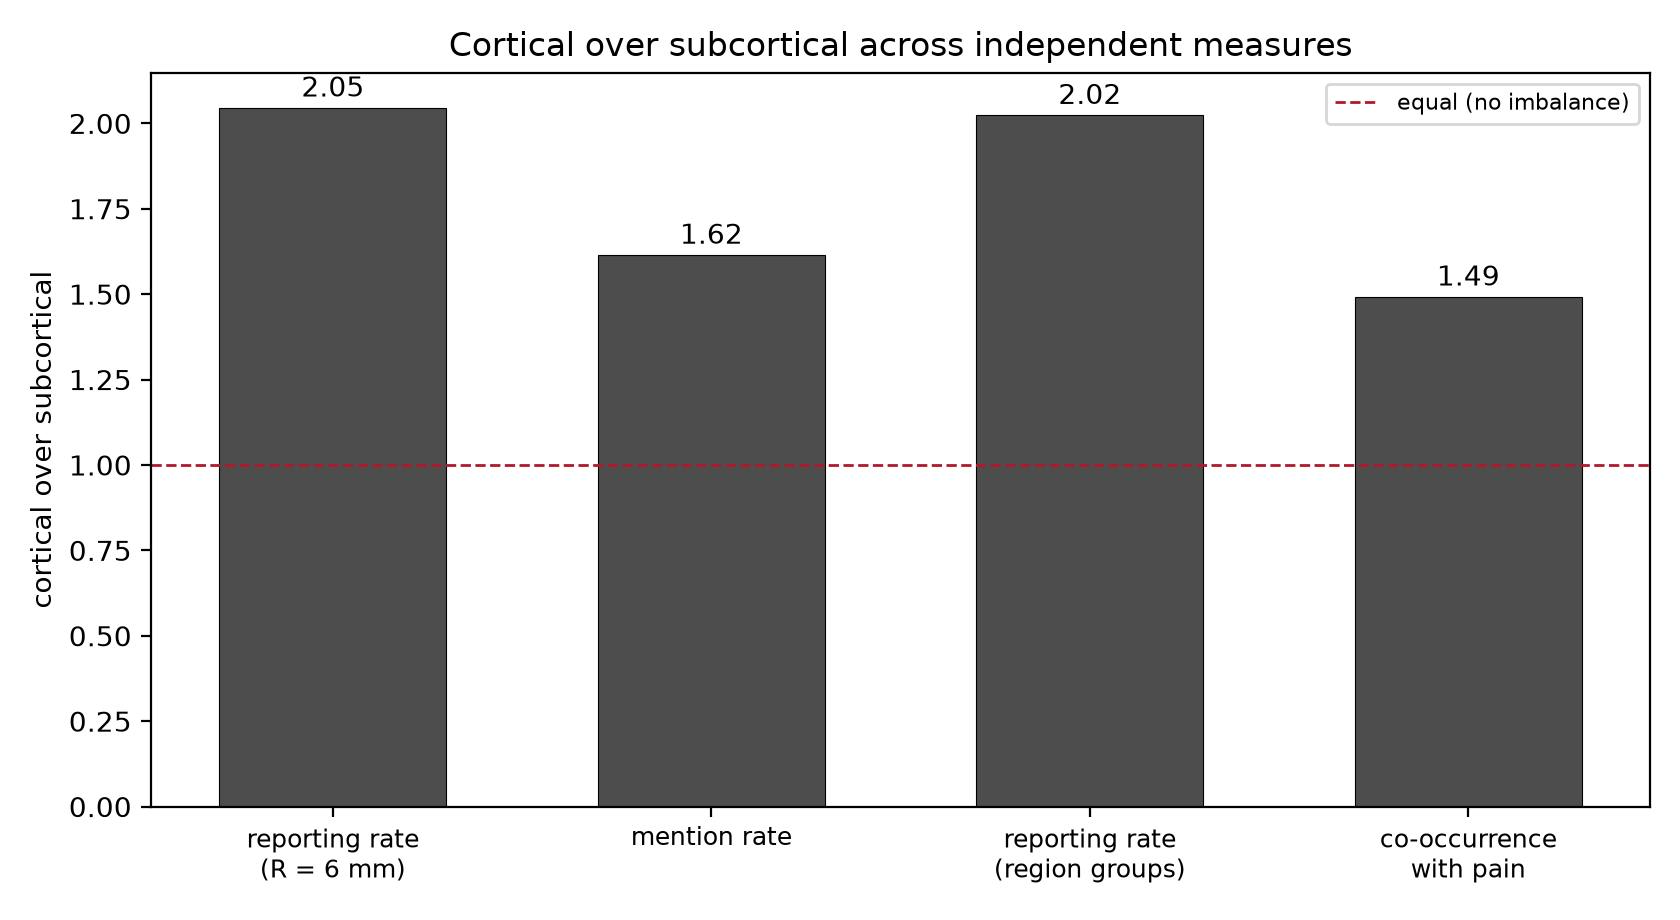
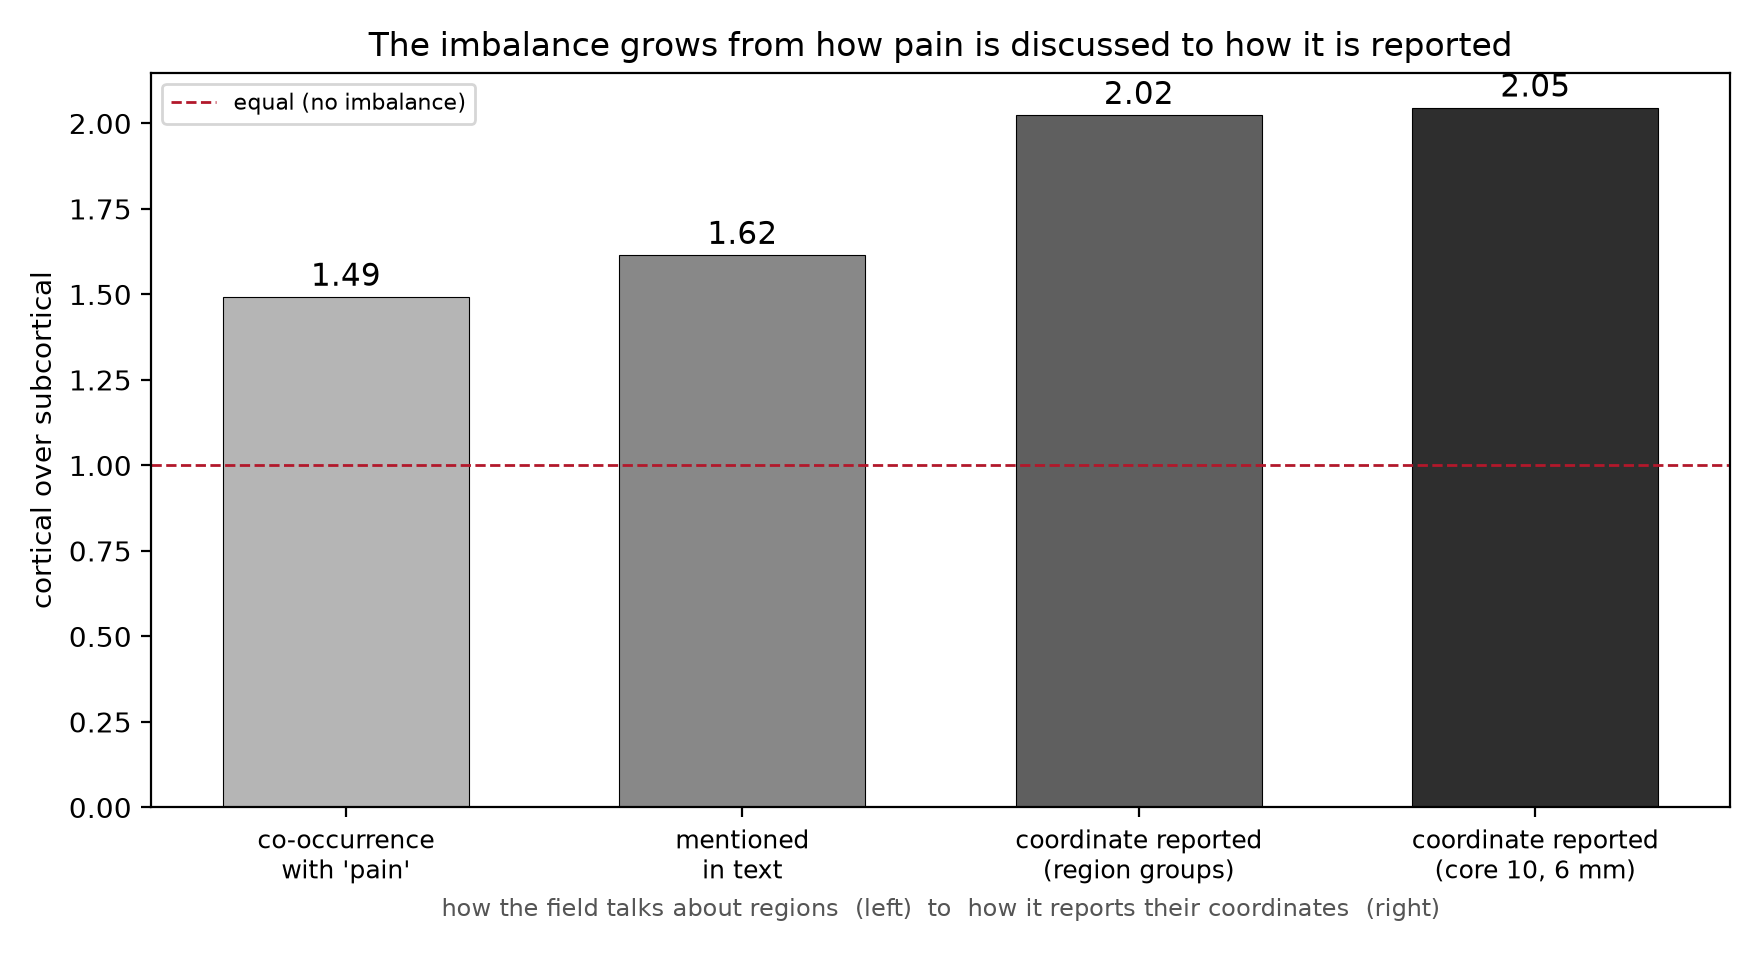
Bracket the threshold sweep and show the convergence gradient
Idea A sweep now spans selection fractions around the primary (2% to 7% of the
corpus), showing the ratio is stable near 2.0 across the pain-specific range and
eases to 1.7 only when loosened. Convergence figure reordered as a gradient from
co-occurrence (1.49) through mentions (1.62) to coordinate reporting (2.02, 2.05),
with graduated shading and a clearer title.

diff --git a/src/make_figures.py b/src/make_figures.py
@@ -29,26 +29,26 @@ def load_json(name):
 
 
 def main():
+    # Ordered as a gradient: how the field talks about regions on the left, how it
+    # reports their coordinates on the right. Idea B uses a signed encoding statistic,
+    # so it is shown as its own per-region figure rather than as a ratio here.
     bars = []
+
+    e = load_json("provenance_E.json")
+    if e and e.get("ratio"):
+        bars.append(("co-occurrence\nwith 'pain'", e["ratio"]))
+
+    c = load_json("provenance_C.json")
+    if c:
+        bars.append(("mentioned\nin text", c["mention_ratio"]))
+        bars.append(("coordinate reported\n(region groups)", c["reporting_ratio"]))
 
     ratio_tab = os.path.join(DATA, "ratio_by_radius.csv")
     if os.path.exists(ratio_tab):
         df = pd.read_csv(ratio_tab)
         r6 = df[(df.roi_set == "core10") & (df.R_mm == 6)]
         if len(r6):
-            bars.append(("reporting rate\n(R = 6 mm)", float(r6.ratio.iloc[0])))
-
-    c = load_json("provenance_C.json")
-    if c:
-        bars.append(("mention rate", c["mention_ratio"]))
-        bars.append(("reporting rate\n(region groups)", c["reporting_ratio"]))
-
-    e = load_json("provenance_E.json")
-    if e and e.get("ratio"):
-        bars.append(("co-occurrence\nwith pain", e["ratio"]))
-
-    # Idea B uses a signed encoding statistic, so it is shown as its own per-region
-    # figure (roi_zvalues.png) rather than as a ratio of means here.
+            bars.append(("coordinate reported\n(core 10, 6 mm)", float(r6.ratio.iloc[0])))
 
     if not bars:
         print("no result files yet; run the analyses first")
@@ -57,16 +57,20 @@ def main():
     labels = [b[0] for b in bars]
     vals = [b[1] for b in bars]
     x = np.arange(len(bars))
-    fig, ax = plt.subplots(figsize=(1.6 * len(bars) + 2, 4.6))
-    ax.bar(x, vals, color="#4d4d4d", edgecolor="k", linewidth=0.4, width=0.6)
+    shades = plt.cm.Greys(np.linspace(0.40, 0.85, len(bars)))
+    fig, ax = plt.subplots(figsize=(1.7 * len(bars) + 2, 4.8))
+    ax.bar(x, vals, color=shades, edgecolor="k", linewidth=0.4, width=0.62)
     ax.axhline(1.0, color="#b2182b", lw=1, ls="--", label="equal (no imbalance)")
     for xi, v in zip(x, vals):
-        ax.annotate("%.2f" % v, (xi, v), textcoords="offset points", xytext=(0, 4), ha="center")
+        ax.annotate("%.2f" % v, (xi, v), textcoords="offset points", xytext=(0, 4),
+                    ha="center", fontsize=11)
     ax.set_xticks(x)
     ax.set_xticklabels(labels, fontsize=9)
     ax.set_ylabel("cortical over subcortical")
-    ax.set_title("Cortical over subcortical across independent measures")
-    ax.legend(fontsize=8)
+    ax.set_title("The imbalance grows from how pain is discussed to how it is reported")
+    ax.set_xlabel("how the field talks about regions  (left)  to  how it reports their coordinates  (right)",
+                  fontsize=8.5, color="#555555")
+    ax.legend(fontsize=8, loc="upper left")
     fig.tight_layout()
     fig.savefig(os.path.join(FIG, "convergence_summary.png"), dpi=200)
     plt.close(fig)

diff --git a/src/audit_reporting.py b/src/audit_reporting.py
@@ -36,7 +36,8 @@ for d in (DATA, FIG):
 
 RADII = [6, 8, 10, 12]
 TARGET_FRACTION = 0.036   # pain study fraction to match when picking the primary threshold
-SWEEP = [0.0005, 0.001, 0.002, 0.003, 0.005]
+# fractions that bracket the primary selection, so the sweep shows stability around it
+SWEEP_FRACTIONS = [0.02, 0.03, 0.036, 0.05, 0.07]
 CORTICAL = "#b2182b"
 SUBCORT = "#2166ac"
 
@@ -192,18 +193,20 @@ def main():
     print(core_sum.to_string(index=False))
 
     sweep_rows = []
-    for t in SWEEP:
+    for frac in SWEEP_FRACTIONS:
+        t = threshold_for_fraction(pain, frac)
         ids = select_pmids(meta, pain, t)
         sp = coords_by_study(coords, ids)
         a = audit(rois.core(), sp, [6])
         cort = a[a.kind == "cortical"].rate.mean()
         sub = a[a.kind == "subcortical"].rate.mean()
-        sweep_rows.append({"threshold": t, "n_studies": len(sp),
-                           "cortical_mean": cort, "subcortical_mean": sub,
+        sweep_rows.append({"target_fraction": frac, "threshold": round(t, 5),
+                           "n_studies": len(sp), "cortical_mean": cort,
+                           "subcortical_mean": sub, "is_primary": frac == TARGET_FRACTION,
                            "ratio": cort / sub if sub else np.nan})
     sweep = pd.DataFrame(sweep_rows)
     sweep.to_csv(os.path.join(DATA, "threshold_sweep.csv"), index=False)
-    print("\nthreshold sweep (core 10, R=6):")
+    print("\nthreshold sweep bracketing the primary selection (core 10, R=6):")
     print(sweep.to_string(index=False))
 
     forest_figure(core_audit, os.path.join(FIG, "reporting_forest.png"),

diff --git a/RESULTS.md b/RESULTS.md
@@ -34,7 +34,9 @@ and brainstem nuclei, and the separation is significant and stable across radii:
 | 10 mm | 0.190 | 0.119 | 1.61 | 0.028 |
 | 12 mm | 0.270 | 0.172 | 1.57 | 0.058 |
 
-The threshold sweep keeps the ratio above one throughout, rising with pain specificity. The result
+A sweep of selection thresholds bracketing the primary keeps the ratio near two across the pain
+specific range (2.06 at 2% of the corpus, 2.03 at 3%, 2.05 at the primary 3.6%), easing to 1.7 only
+when the selection is loosened to 7%, so the result does not hinge on the threshold. The result
 is selective: primary somatosensory cortex, a large and easily imaged region, is reported as rarely
 as the subcortical nuclei and sits well below the other cortical nodes. A detectability-only account
 predicts the opposite, so the pattern tracks what the literature emphasizes rather than only what is
